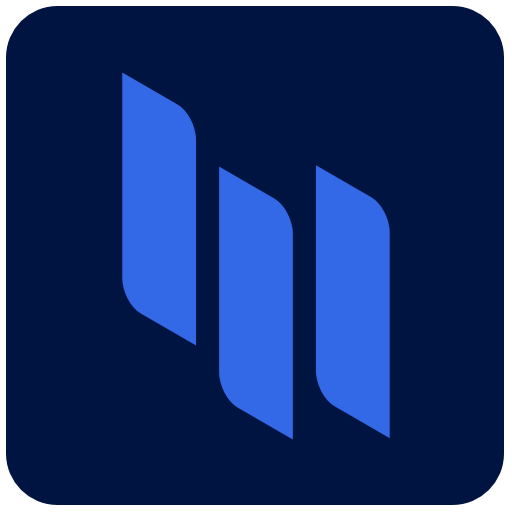
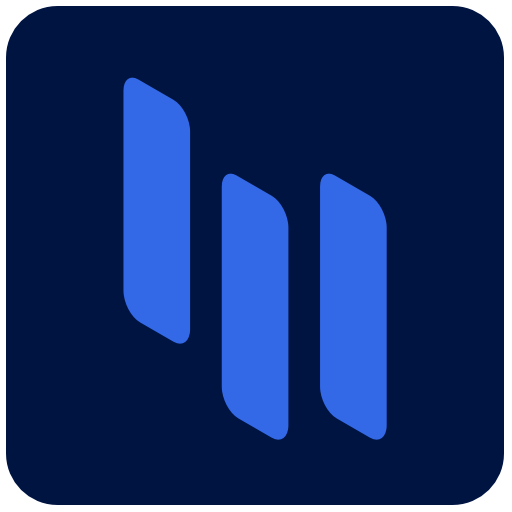
UI permissions update

diff --git a/src/js/components/channel.component.js b/src/js/components/channel.component.js
@@ -543,7 +543,7 @@ class ChannelComponent extends React.Component {
               direction="right-bottom"
               content={
                 <React.Fragment>
-                  <div className="w-100 p-20 column align-items-start border-bottom">
+                  <div className="w-100 p-20 column align-items-start">
                     <div className="row w-100">
                       <div className="p regular color-d2 flexer">Share</div>
                       <Toggle
@@ -584,42 +584,46 @@ class ChannelComponent extends React.Component {
                     </Collapsable>
                   </div>
 
-                  <Menu
-                    items={[
-                      {
-                        hide: this.props.channel.private,
-                        icon: <IconComponent icon="radio" size={20} color="#aeb5bc" />,
-                        text: this.props.channel.readonly ? 'Disable broadcast' : 'Make broadcast',
-                        label: 'Only you can post messages',
-                        onClick: e => this.updateChannelReadonly(!this.props.channel.readonly),
-                      },
-                      {
-                        hide: this.props.channel.public,
-                        icon: <IconComponent icon="unlock" size={20} color="#aeb5bc" />,
-                        text: 'Make public',
-                        label: 'Everyone in your team has access',
-                        onClick: e => this.updateChannelVisibility({ private: false, public: true }),
-                      },
-                      {
-                        hide: !this.props.channel.public,
-                        icon: <IconComponent icon="lock" size={20} color="#aeb5bc" />,
-                        text: 'Make private',
-                        label: 'Members of this channel only',
-                        onClick: e => this.updateChannelVisibility({ private: false, public: false }),
-                      },
-                      {
-                        hide: false,
-                        icon: <IconComponent icon="pen" size={20} color="#aeb5bc" />,
-                        text: 'Edit',
-                        label: 'Update or remove this channel',
-                        onClick: e => this.setState({ channelModal: true, channelMenu: false }),
-                      },
-                    ]}
-                  />
+                  {this.state.hasAdminPermission && (
+                    <div className="w-100 border-top">
+                      <Menu
+                        items={[
+                          {
+                            hide: this.props.channel.private,
+                            icon: <IconComponent icon="radio" size={20} color="#aeb5bc" />,
+                            text: this.props.channel.readonly ? 'Disable broadcast' : 'Make broadcast',
+                            label: 'Only you can post messages',
+                            onClick: e => this.updateChannelReadonly(!this.props.channel.readonly),
+                          },
+                          {
+                            hide: this.props.channel.public,
+                            icon: <IconComponent icon="unlock" size={20} color="#aeb5bc" />,
+                            text: 'Make public',
+                            label: 'Everyone in your team has access',
+                            onClick: e => this.updateChannelVisibility({ private: false, public: true }),
+                          },
+                          {
+                            hide: !this.props.channel.public,
+                            icon: <IconComponent icon="lock" size={20} color="#aeb5bc" />,
+                            text: 'Make private',
+                            label: 'Members of this channel only',
+                            onClick: e => this.updateChannelVisibility({ private: false, public: false }),
+                          },
+                          {
+                            hide: this.props.channel.private,
+                            icon: <IconComponent icon="pen" size={20} color="#aeb5bc" />,
+                            text: 'Edit',
+                            label: 'Update or remove this channel',
+                            onClick: e => this.setState({ channelModal: true, channelMenu: false }),
+                          },
+                        ]}
+                      />
+                    </div>
+                  )}
                 </React.Fragment>
               }
             >
-              <HeaderButton className="row" onClick={() => (this.state.hasAdminPermission ? this.setState({ channelMenu: true }) : null)}>
+              <HeaderButton className="row" onClick={() => this.setState({ channelMenu: true })}>
                 <IconComponent icon="more-v" size={18} thickness={1.8} color="#aeb5bc" className="button" />
               </HeaderButton>
             </Popup>

diff --git a/src/js/pages/auth.page.js b/src/js/pages/auth.page.js
@@ -658,6 +658,16 @@ class AuthPage extends React.Component {
                   <div onClick={() => this.setState({ view: 'signup', error: null })} className="color-l0 text-center mt-10 button">
                     Create an account
                   </div>
+                  <div className="color-l0 a text-center mt-40">
+                    Read our{' '}
+                    <a href="https://weekdayapp.com/termsofuse" target="_blank">
+                      <strong>terms of use</strong>
+                    </a>{' '}
+                    &{' '}
+                    <a href="https://weekdayapp.com/privacypolicy" target="_blank">
+                      <strong>privacy policy</strong>
+                    </a>
+                  </div>
                 </Form>
               )
             }}
@@ -676,7 +686,7 @@ class AuthPage extends React.Component {
 
         <Auth>
           <Logo>
-            <img src="logo-white.svg" height="20" alt="Weekday" />
+            <img src="icon-white.svg" height="20" alt="Weekday" />
           </Logo>
 
           <Loading show={this.state.loading} />
@@ -717,7 +727,7 @@ const Auth = styled.div`
   align-content: center;
   justify-content: center;
   background: #f3f3f3;
-  background: linear-gradient(45deg, #3d9ee1, #a63de1);
+  background: linear-gradient(45deg, #8e43e7, #b84592);
   position: relative;
 `
 
@@ -731,8 +741,8 @@ const Container = styled.div`
   align-content: center;
   justify-content: center;
   flex-direction: column;
-  padding-top: 30px;
-  padding-bottom: 30px;
+  padding-top: 50px;
+  padding-bottom: 50px;
 `
 
 const ErrorText = styled.div`

diff --git a/src/js/modals/team-onboarding.modal.js b/src/js/modals/team-onboarding.modal.js
@@ -136,17 +136,15 @@ export default function TeamOnboardingModal(props) {
 
     return (
       <React.Fragment>
-        <img src="./team-onboarding.png" width="90%" />
-
-        <Text className="h1 mb-30 mt-30 color-d3">Start something...</Text>
-        <Text className="h3 mb-10 pl-20 pr-20 text-center color-d2">Create a new team by entering the name below</Text>
+        <Text className="h1 mb-30 mt-30 color-d3">Create a team</Text>
+        <Text className="h3 mb-10 pl-20 pr-20 text-center color-d2">What would you like to call your new team?</Text>
 
         <div className="column mt-30 align-items-center w-100">
           <InputContainer>
             <Input placeholder="Team name" inputSize="large" value={name} onChange={e => setName(e.target.value)} />
           </InputContainer>
 
-          <Button onClick={() => (name != '' ? setStep(2) : null)} size="large" text="Next" />
+          <Button onClick={() => (name != '' ? setStep(2) : null)} size="large" text="Next" className="mt-30" />
 
           <div className="mt-30 color-blue h5 button" onClick={props.onCancel}>
             No thanks, not now
@@ -267,7 +265,7 @@ const Container = styled.div`
 const Inner = styled.div`
   background: white;
   position: relative;
-  height: 90%;
+  height: 70%;
   width: 550px;
   border-radius: 30px;
   display: flex;

diff --git a/src/js/components/channels.component.js b/src/js/components/channels.component.js
@@ -109,7 +109,7 @@ const Channel = props => {
     >
       <ChannelContainerPadding>
         <Avatar muted={props.muted} color={props.color} presence={props.presence} textColor={avatarTextColor} size="small" image={props.private ? props.image : null} title={props.name}>
-          {props.icon ? <IconComponent icon={props.icon} size={12} color={avatarTextColor} thickness={2} /> : null}
+          {props.icon ? <IconComponent icon={props.icon} size={12} color={avatarTextColor} thickness={2} style={{ position: 'relative', top: -1 }} /> : null}
         </Avatar>
 
         <ChannelContents>

diff --git a/src/js/index.js b/src/js/index.js
@@ -33,9 +33,9 @@ import '../assets/logo.svg'
 import '../assets/logo-white.svg'
 import '../assets/icon.svg'
 import '../assets/icon-muted.svg'
+import '../assets/icon-white.svg'
 import '../assets/icon-light.svg'
 import '../assets/favicon.png'
-import '../assets/team-onboarding.png'
 import '../assets/upgrade.png'
 import '../assets/downgrade.png'
 import '../styles/index.css'
